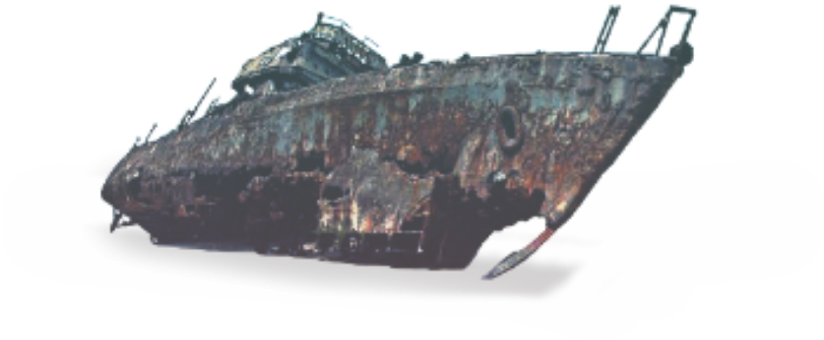
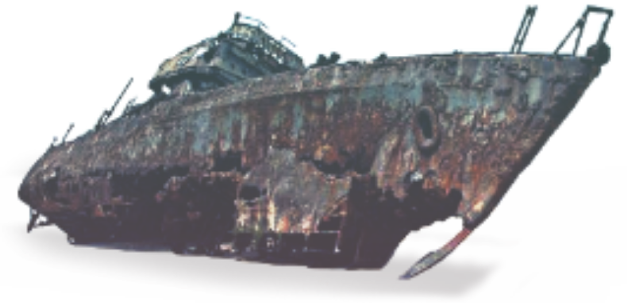
animations

diff --git a/index.html b/index.html
@@ -22,16 +22,16 @@
 
     <section class="animation">
         <img class="sabertooth" src="./sabertooth.png" alt="paper-plane">
-        <var class="tbox">A lightweight, powerful Inspection Maintenance & Repair (IMR) autonomous vehicle</var>
-        <var class="tbox" style="left:50vh;top:20vh">Made by SAAB SeaEye</var>
-        <var class="tbox" style="left:25vh;top:40vh">TBOX3</var>
-        <var class="tbox" style="left:70vh;top:60vh">TBOX4</var>
-        <img style="position:absolute;right:40%;bottom:0vh; width: 70vh;" src="./shipwreck.png" alt="shipwreck">
+        <var class="tbox " style="left:5vh;top:5vh">A lightweight, powerful Inspection Maintenance & Repair (IMR) autonomous vehicle made by SAAB SeaEye, a part of SAAB group</var>
+        <var class="tbox " style="right:10vh;top:20vh">The Sabertooth is ideal for a variety of missions: inspection, repair and maintenance, research tasks and environmental monitoring.</var>
+        <var class="tbox " style="left:10vh;top:40vh">TBOX3</var>
+        <var class="tbox " style="left:10vh;top:60vh">TBOX4</var>
+        <img class="shipwreck " style="position:absolute;right:25%;left:25%;bottom:0vh; width: 30%;" src="./shipwreck.png" alt="shipwreck">
     </section>
 
-    <footer class="panel" style="color:black">
+    <div class="panel" style="color:black">
         <h1>Wooo</h1>
-    </footer>
+    </div>
 
     <script src="https://cdnjs.cloudflare.com/ajax/libs/ScrollMagic/2.0.8/ScrollMagic.min.js"></script>
     <script src="https://cdnjs.cloudflare.com/ajax/libs/ScrollMagic/2.0.8/plugins/debug.addIndicators.js"></script>

diff --git a/app.js b/app.js
@@ -41,6 +41,14 @@ for (var i = 0; i < revealElements.length; i++) {
             offset: 600 + 600 * (i * 2),
             triggerHook: 0.5,
         })
-        .setClassToggle(revealElements[i], "visible") // add class toggle
+        .setClassToggle(revealElements[i], "visible") // add class toggle\
         .addTo(controller);
 }
+
+new ScrollMagic.Scene({
+        triggerElement: '.animation',
+        offset: 2400,
+        triggerHook: 0.5,
+    })
+    .setClassToggle(document.getElementsByClassName("shipwreck")[0], "visible") // add class toggle
+    .addTo(controller);

diff --git a/style.css b/style.css
@@ -46,9 +46,6 @@ header h1 {
 
 .tbox {
     opacity: 0;
-}
-
-.tbox.visible {
     position: absolute;
     justify-content: center;
     align-items: center;
@@ -60,5 +57,23 @@ header h1 {
     position: absolute;
     justify-content: center;
     align-items: center;
-    opacity: 1;
+}
+
+.shipwreck {
+    opacity: 0;
+    animation: fadeOut 2s;
+}
+
+.visible {
+    opacity: 1 !important;
+    animation: fadeIn 2s;
+}
+
+@keyframes fadeIn {
+    0% {
+        opacity: 0;
+    }
+    100% {
+        opacity: 1;
+    }
 }
